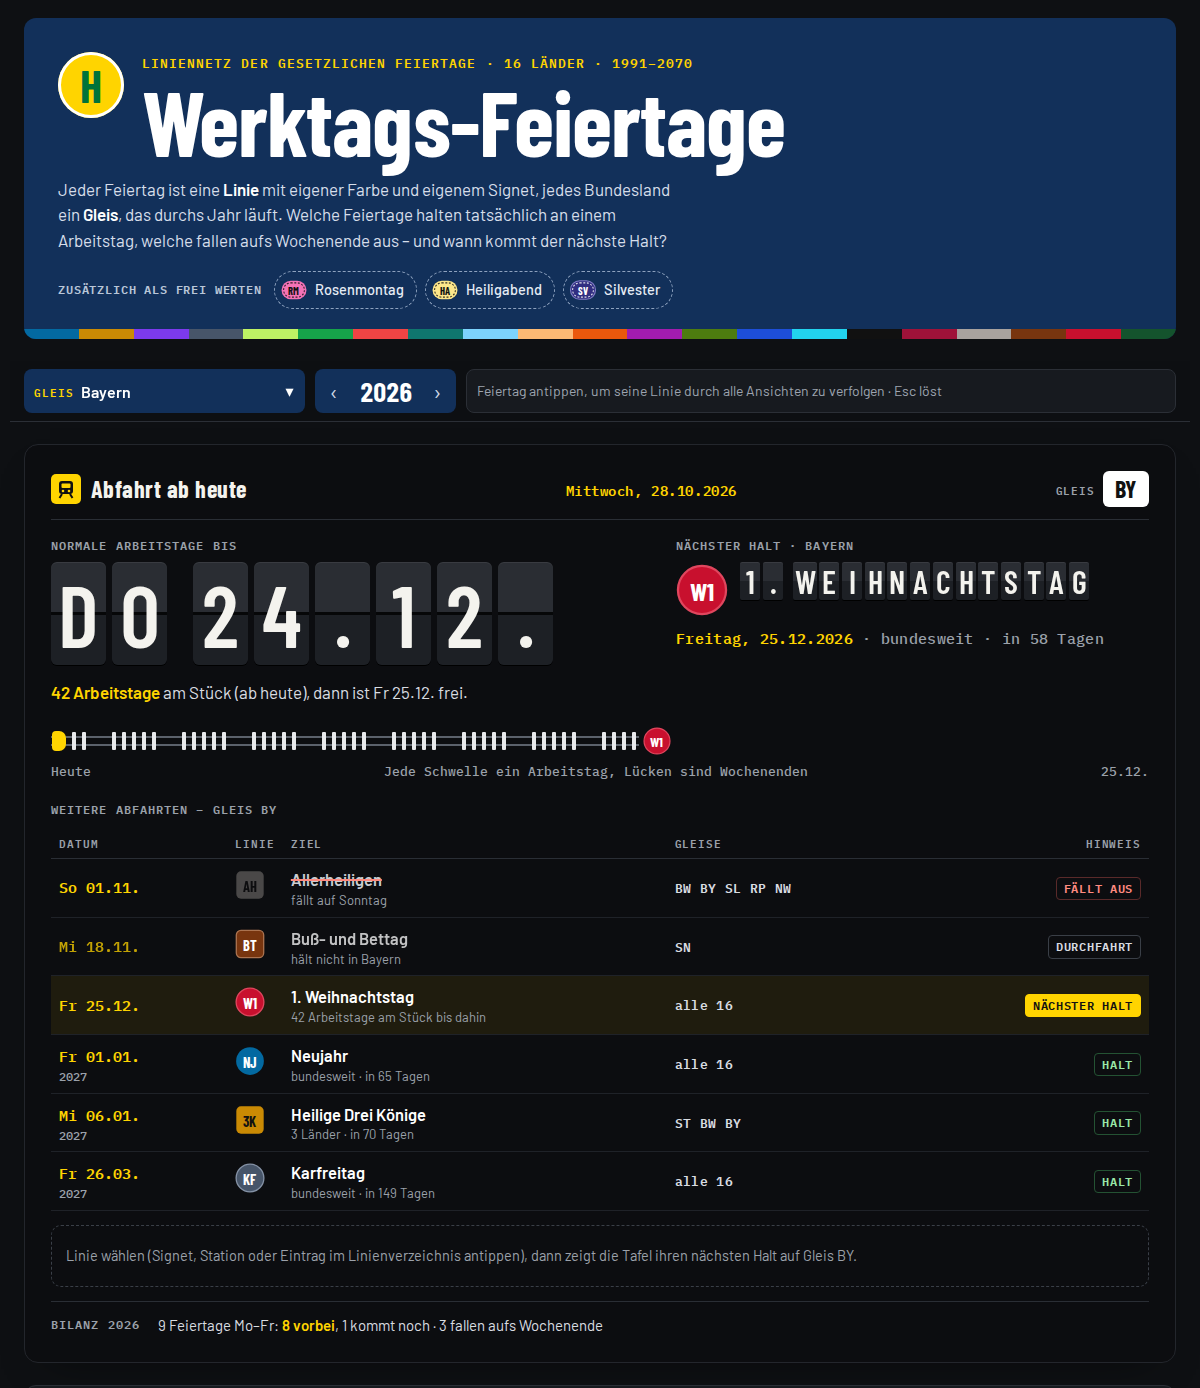
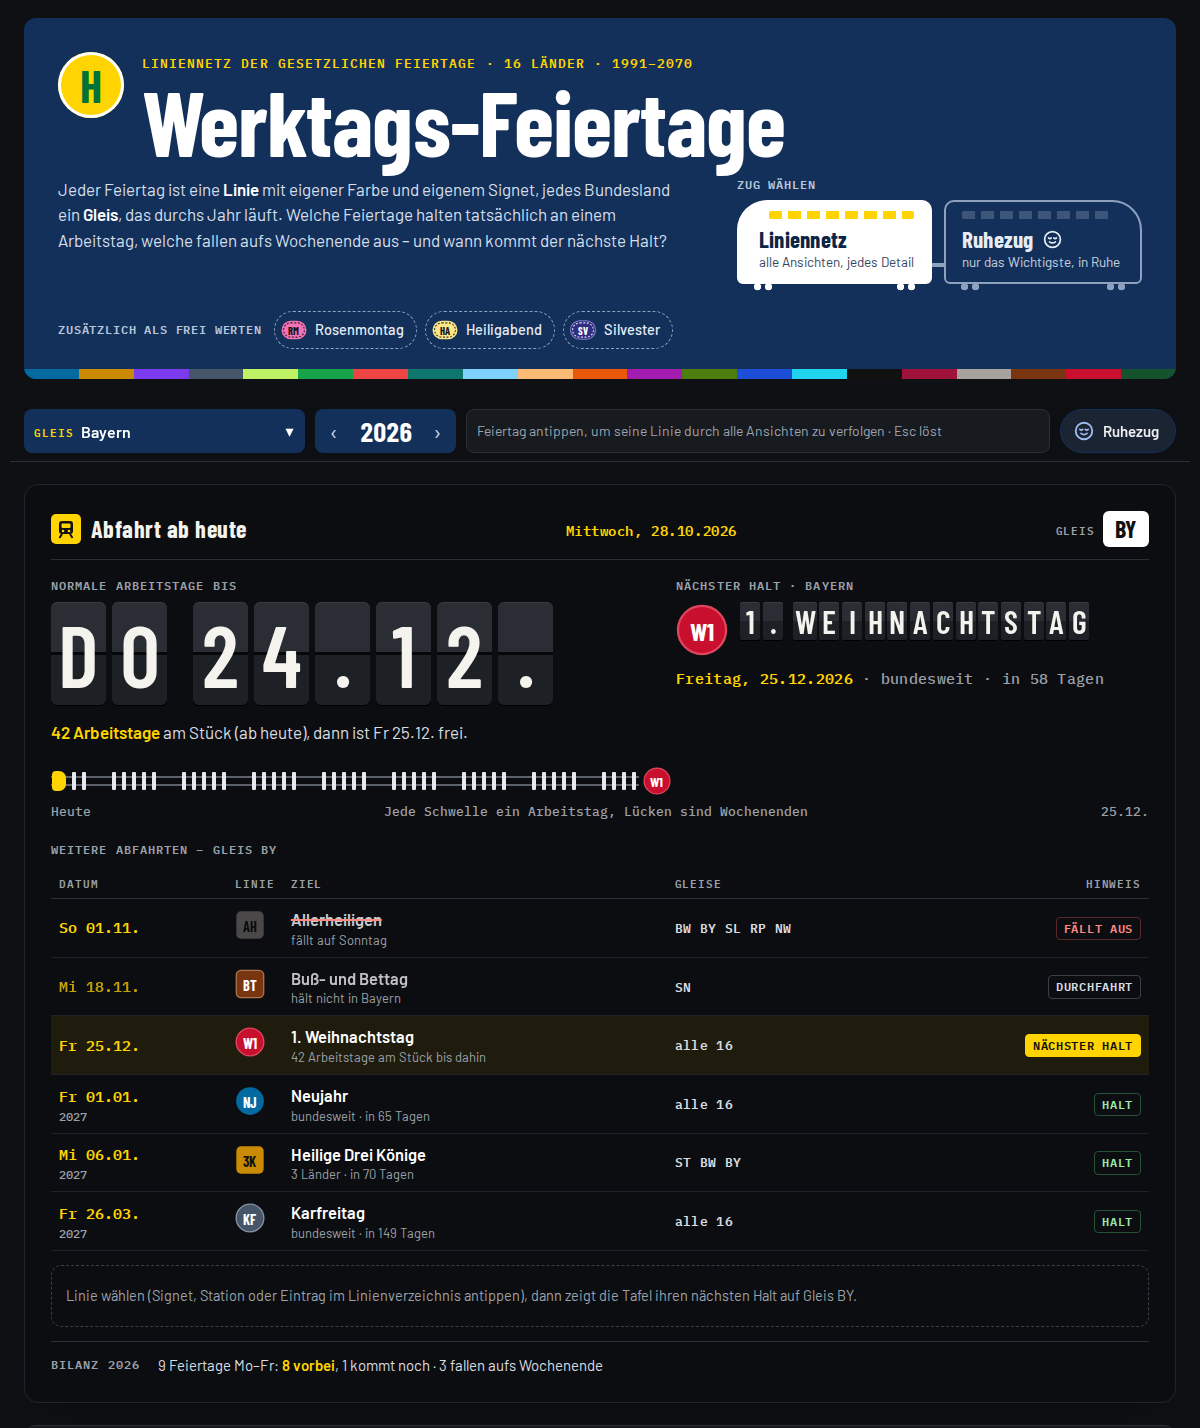
docs: README und AGENTS.md zum Ruhezug, Bilder neu
README: Abschnitt „Zwei Züge“ mit den fünf Wagen und zwei Bildpaaren
(docs/ruhe-*, docs/ruhe-jahre-*), Kopf-Screenshot mit der Zugwahl.
AGENTS.md: ZUG, wtf-zug, zug im Hash, Kopf-Skript, renderRuhe() und
inLand() für Sätze über ein Land. render-images.mjs erzeugt die neuen
Bilder mit.

diff --git a/AGENTS.md b/AGENTS.md
@@ -7,7 +7,8 @@ Abhängigkeiten, Oberfläche auf Deutsch. Live: https://bmmmm.github.io/feiertag
 ## Architecture
 
 - `index.html` enthält alles: CSS im `<style>`, die Rechtslage in einem eigenen
-  `<script>`, die Oberfläche als eine IIFE im zweiten `<script>`.
+  `<script>`, die Oberfläche als eine IIFE im zweiten `<script>`. Ein Einzeiler im `<head>`
+  setzt `data-zug="ruhe"` schon vor dem ersten Bild (sonst blitzt das Liniennetz auf).
 - **Daten:** `<script id="feiertage-daten">` ist die einzige Quelle der Rechtslage,
   rein rechnerisch und ohne DOM; er setzt `FEIERTAGE.holidays(y, extras)`. Je Feiertag
   ein `add(id, name, datum, full, reg, note)`: `id` ist fest (`fronleichnam`,
@@ -23,9 +24,10 @@ Abhängigkeiten, Oberfläche auf Deutsch. Live: https://bmmmm.github.io/feiertag
   zeichnen das Signet — überall dasselbe, nie Farbe allein. Ein neuer Feiertag im
   Datenblock braucht einen Eintrag in `LN` und `ORDER`.
 - **Zustand:** *eine* Auswahl `S = {land, jahr, fid, tag}` (fid = Feiertags-id) und die
-  flüchtige Vorschau `HV` (Hover/Fokus). Jede Ansicht liest beide, jede kann sie setzen;
+  flüchtige Vorschau `HV` (Hover/Fokus). Daneben `ZUG` (`'netz'` | `'ruhe'`): welcher Zug
+  fährt, siehe unten. Jede Ansicht liest beide, jede kann sie setzen;
   Änderungen laufen über `commit()`, das neu zeichnet und den URL-Hash schreibt
-  (`#jahr=…&land=…&linie=…&tag=…`, eingelesen von `readHash()` nur über Whitelists).
+  (`#jahr=…&land=…&linie=…&tag=…&zug=…`, eingelesen von `readHash()` nur über Whitelists).
   Die Vorschau zeichnet nichts neu: `brush()` setzt je Abschnitt (`SECS`) Klassen an die
   vorab gefundenen Treffer und dimmt den Rest über eine Klasse am Abschnitt — keine
   `:not()`-Regeln am Wurzelelement, die kosteten je Hover ~20 ms Style-Neuberechnung.
@@ -35,15 +37,25 @@ Abhängigkeiten, Oberfläche auf Deutsch. Live: https://bmmmm.github.io/feiertag
 - **Fremdeingaben** (Hash, `localStorage`, `dataset`) nur über `Object.hasOwn(…)` gegen
   `BY`/`LN` nachschlagen, nie `obj[fremd]` direkt: `#land=constructor` hat sonst die
   ganze Seite lahmgelegt, über `localStorage` sogar dauerhaft.
-  `extras` (Rosenmontag, Heiligabend, Silvester) und das Land liegen in `localStorage`
-  unter `wtf-ex` und `wtf-sel` — die Schlüssel nicht umbenennen, sonst verlieren Besucher
-  ihre Auswahl.
+  `extras` (Rosenmontag, Heiligabend, Silvester), das Land und der Zug liegen in
+  `localStorage` unter `wtf-ex`, `wtf-sel` und `wtf-zug` — die Schlüssel nicht umbenennen,
+  sonst verlieren Besucher ihre Auswahl.
 - **Ansichten** (je eine `render…`-Funktion, gesammelt in `renderAll()`): Abfahrtstafel
   „ab heute“ (`renderBoard`), Liniennetz des Jahres (`renderNetz`, Steckbrief
   `renderLdet`), Jahresstrecke (`renderStrecke`), Linienverzeichnis (`renderVerz`),
   Taktfahrplan + Fahrplan je Linie 1991–2070 (`renderTakt`, Spuren in `buildTakt`, nur
   bei Wechsel von Zeitraum, Zusatztagen, Land oder Breite neu), Länder (`renderLaender`),
   Auswahlleiste (`renderBar`). Alles per Template-String als `innerHTML`.
+- **Ruhezug** (`#ruhe`, `renderRuhe()` → `renderRu1`…`renderRu4`): dieselbe Auswahl `S`, aber
+  ohne Vorschau und Brushing — je Wagen eine Kernaussage als ganzer Satz (`h2`) und ein ruhiges
+  Bild: nächster freier Werktag mit Strecke, Reiseverlauf des Jahres, 16 Jahre als Stapel,
+  Länder als Züge. Eine Datenfarbe (`--heat`), Gelb nur „nächster Halt“, Rot nur „heute“.
+  Fährt der Ruhezug, zeichnet `renderAll2()` nur ihn; das Liniennetz bleibt per CSS
+  (`:root[data-zug="ruhe"]`) verborgen und wird beim Umsteigen (`setZug()`, mit View
+  Transition) über seine Cache-Schlüssel nachgeholt. `zug=ruhe` steht im Hash, `zug=netz` nur,
+  wenn es von `wtf-zug` abweicht — alte Links ohne `zug` bleiben gültig. Sätze über ein Land
+  immer mit `inLand(c)` bilden („im Saarland“, „bundesweit“), nie `'in '+BY[c].n`. Neue
+  Rechtslage braucht hier nichts: Wagen 3 liest Fahrplanwechsel aus `EVENTS`/`EVH`.
 - `TODAY`/`TY` kommen aus der lokalen Uhr des Browsers; `YMIN`/`YMAX` begrenzen
   den Zeitraum. Zwei Feiertage am selben Tag gibt es (2008: Tag der Arbeit = Christi
   Himmelfahrt; 2038 mit Rosenmontag: = Frauentag) — Tag-Auswahl und Steckbrief nennen
@@ -70,7 +82,8 @@ Dateien, jede Schrift wird benutzt. Dieselben zwei Skripte laufen in
 Eine Änderung an der Logik im Browser gegenprüfen: `index.html` öffnen, ein Jahr mit
 bekannter Lage ansehen (z. B. 2026: bundesweit 7 der 9 Feiertage auf Mo–Fr). Eine
 Ansicht mit fester Auswahl lädt direkt über den Hash, z. B.
-`index.html#jahr=2008&land=BY&linie=himmelfahrt` (Doppel-Feiertag).
+`index.html#jahr=2008&land=BY&linie=himmelfahrt` (Doppel-Feiertag), den Ruhezug mit
+`&zug=ruhe` — dort beide Züge prüfen.
 
 ## Conventions
 

diff --git a/README.md b/README.md
@@ -10,7 +10,36 @@ als Liniennetz: jeder Feiertag eine Linie, jedes Land ein Gleis.</p>
 
 <picture>
   <source media="(prefers-color-scheme: dark)" srcset="docs/screenshot-dark.png">
-  <img src="docs/screenshot-light.png" alt="Kopf der Seite mit Haltestellen-Schild und dem Titel Werktags-Feiertage, darunter die Auswahlleiste (Gleis Bayern, Jahr 2026) und die Abfahrtstafel: Normale Arbeitstage bis Do 24.12. als Fallblattanzeige, nächster Halt 1. Weihnachtstag, darunter weitere Abfahrten mit Hinweisen wie „fällt aus“ und „Durchfahrt“.">
+  <img src="docs/screenshot-light.png" alt="Kopf der Seite mit Haltestellen-Schild, dem Titel Werktags-Feiertage und der Zugwahl (Liniennetz oder Ruhezug), darunter die Auswahlleiste (Gleis Bayern, Jahr 2026) und die Abfahrtstafel: Normale Arbeitstage bis Do 24.12. als Fallblattanzeige, nächster Halt 1. Weihnachtstag, darunter weitere Abfahrten mit Hinweisen wie „fällt aus“ und „Durchfahrt“.">
+</picture>
+
+## Zwei Züge: Liniennetz und Ruhezug
+
+Oben im Kopf steht die **Zugwahl**, zwei gekuppelte Wagen. Das **Liniennetz** zeigt alles:
+jede Linie, jedes Land, jedes Jahr, mit Vorschau quer durch alle Ansichten. Wem das zu viel
+auf einmal ist, steigt in den **Ruhezug** um – auch mitten auf der Seite über den Knopf in der
+Auswahlleiste. Er zeigt nur das Wichtigste: je Wagen eine Kernaussage in einem ganzen Satz und
+ein ruhiges Bild, eine Farbe für Daten, Gelb für den nächsten Halt, Rot nur für „heute“.
+
+1. **Nächster Halt** – der nächste freie Werktag, groß, mit Datum und Countdown. Darunter fährt
+   ein Zug vom letzten freien Werktag bis heute: so viele Arbeitstage geschafft, so viele noch.
+2. **Das Jahr** – wie viele Feiertage auf Mo–Fr fallen, wie viele aufs Wochenende, was schon
+   vorbei ist; daneben der Reiseverlauf des Jahres mit einer Station je Feiertag.
+3. **Gute und magere Jahre** – 16 Jahre als Stapel (volle Kästchen Mo–Fr, leere am Wochenende),
+   der Vergleich mit dem Schnitt 1991–2070 und in zwei Sätzen, warum die Zahl schwankt.
+4. **Die Länder im Vergleich** – jedes Land ein Zug, jeder Wagen ein Feiertag an einem Werktag.
+5. **Gut zu wissen** – Arbeitsort zählt, regionale Tage zählen nicht; dazu die optionalen Tage.
+
+Ein Link mit `#…&zug=ruhe` öffnet direkt den Ruhezug.
+
+<picture>
+  <source media="(prefers-color-scheme: dark)" srcset="docs/ruhe-dark.png">
+  <img src="docs/ruhe-light.png" alt="Der Ruhezug: Kopf mit der Zugwahl, der Wagen Ruhezug ist erleuchtet. Darunter Wagen 1, Nächster Halt Bayern: Nächster freier Werktag 1. Weihnachtstag, Freitag, 25. Dezember 2026, in 58 Tagen, bis dahin noch 42 Arbeitstage. Eine Strecke vom letzten freien Werktag Fronleichnam bis zum 1. Weihnachtstag, der Zug steht bei 103 geschafften Arbeitstagen, noch 42.">
+</picture>
+
+<picture>
+  <source media="(prefers-color-scheme: dark)" srcset="docs/ruhe-jahre-dark.png">
+  <img src="docs/ruhe-jahre-light.png" alt="Wagen 3, Gute und magere Jahre in Bayern: 2026 ist ein mageres Jahr, 9 Feiertage auf Werktagen, im Schnitt 10,1. Darunter 16 Stapel für 2021 bis 2036, volle Kästchen für Feiertage an Werktagen, leere für Feiertage am Wochenende, und ein Kasten: Warum schwankt das?">
 </picture>
 
 ## Linien, Gleise, Halte
@@ -61,8 +90,8 @@ also genau diese Ansicht.
 </picture>
 
 Alles wird im Browser berechnet: keine Cookies, kein Tracking, keine Anfragen an fremde
-Server, die Schriften liegen im Repo. Gewähltes Land und optionale Tage bleiben im
-`localStorage` des Browsers. Bedienbar per Tastatur (Pfeiltasten im Fahrplan),
+Server, die Schriften liegen im Repo. Gewähltes Land, optionale Tage und der gewählte Zug
+bleiben im `localStorage` des Browsers. Bedienbar per Tastatur (Pfeiltasten im Fahrplan),
 hell und dunkel, ab 360 px Breite.
 
 ## So wird gerechnet
